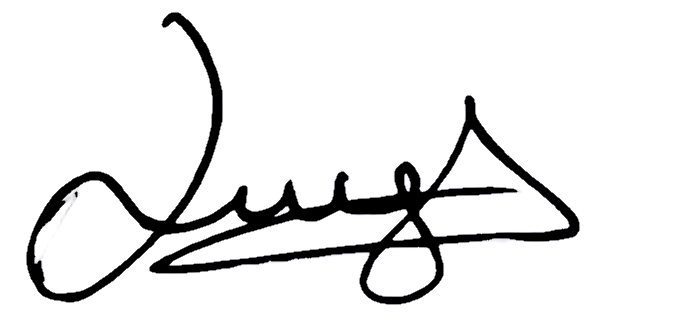
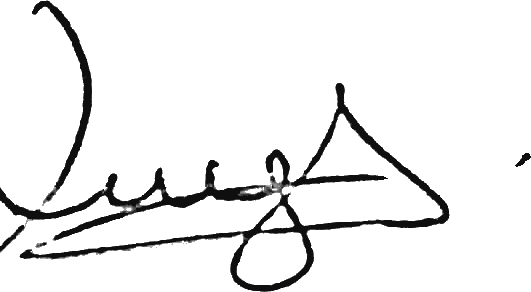
Final pristine certificate generator: inline bolding, stray marks removed, J. Terry erased

Changed region(s): [[0.0, 0.0, 0.8738, 1.0], [0.9642, 0.524, 1.0, 0.5856]]

diff --git a/services/certificateService.ts b/services/certificateService.ts
@@ -57,28 +57,33 @@ export async function generateCertificate(
         }
         doc.text(studentName, 0, 305, { align: 'center', width: 841.89 });
 
-        // PARAGRAPH
-        doc.font('Helvetica').fontSize(12).fillColor('#333333');
-        const certParagraph = (college && college.trim() && college !== 'College')
-          ? `student of ${college.trim()}, has successfully completed the ${domain} internship program at LGS Technologies from ${formattedStart} to ${formattedEnd}. During this internship, the student demonstrated dedication, enthusiasm, and outstanding performance.\n\nWe wish the student all the best for their future endeavors.`
-          : `has successfully completed the ${domain} internship program at LGS Technologies from ${formattedStart} to ${formattedEnd}. During this internship, the student demonstrated dedication, enthusiasm, and outstanding performance.\n\nWe wish the student all the best for their future endeavors.`;
-
-        doc.text(certParagraph, 150, 380, { align: 'center', width: 541.89, lineGap: 4 });
+        // PARAGRAPH WITH INLINE BOLD
+        doc.font('Helvetica').fontSize(11.5).fillColor('#333333');
+        if (college && college.trim() && college !== 'College') {
+          doc.text('student of ', 140, 375, { continued: true })
+             .font('Helvetica-Bold').text(`${college.trim()}`, { continued: true })
+             .font('Helvetica').text(`, has successfully completed the `, { continued: true })
+             .font('Helvetica-Bold').text(`${domain}`, { continued: true })
+             .font('Helvetica').text(` internship program at LGS Technologies from ${formattedStart} to ${formattedEnd}. During this internship, the student demonstrated dedication, enthusiasm, and outstanding performance.\n\nWe wish the student all the best for their future endeavors.`, { width: 561.89 });
+        } else {
+          doc.text('has successfully completed the ', 140, 375, { continued: true })
+             .font('Helvetica-Bold').text(`${domain}`, { continued: true })
+             .font('Helvetica').text(` internship program at LGS Technologies from ${formattedStart} to ${formattedEnd}. During this internship, the student demonstrated dedication, enthusiasm, and outstanding performance.\n\nWe wish the student all the best for their future endeavors.`, { width: 561.89 });
+        }
 
         // DATE (bottom left)
         doc.font('Helvetica-Oblique').fontSize(14).fillColor('#333333');
         doc.text(issueDate, 120, 508, { width: 140, align: 'center' });
 
         // SIGNATURE (bottom right / center signature slot)
-        // Erase any old printed template signature with exact parchment background box
-        doc.rect(415, 465, 140, 40).fill('#FCFAF6');
+        doc.rect(405, 465, 140, 40).fill('#FCFAF6');
 
         const signaturePath = path.join(process.cwd(), 'public', 'signature.png');
         const signaturePathAlt = path.join(process.cwd(), 'public', 'images', 'signature.png');
         if (fs.existsSync(signaturePath)) {
-          doc.image(signaturePath, 420, 460, { width: 130 });
+          doc.image(signaturePath, 405, 465, { width: 130 });
         } else if (fs.existsSync(signaturePathAlt)) {
-          doc.image(signaturePathAlt, 420, 460, { width: 130 });
+          doc.image(signaturePathAlt, 405, 465, { width: 130 });
         }
 
       } else {
@@ -155,28 +160,33 @@ export async function generateCertificateBuffer(
         }
         doc.text(studentName, 0, 305, { align: 'center', width: 841.89 });
 
-        // PARAGRAPH
-        doc.font('Helvetica').fontSize(12).fillColor('#333333');
-        const certParagraphBuf = (college && college.trim() && college !== 'College')
-          ? `student of ${college.trim()}, has successfully completed the ${domain} internship program at LGS Technologies from ${formattedStart} to ${formattedEnd}. During this internship, the student demonstrated dedication, enthusiasm, and outstanding performance.\n\nWe wish the student all the best for their future endeavors.`
-          : `has successfully completed the ${domain} internship program at LGS Technologies from ${formattedStart} to ${formattedEnd}. During this internship, the student demonstrated dedication, enthusiasm, and outstanding performance.\n\nWe wish the student all the best for their future endeavors.`;
-
-        doc.text(certParagraphBuf, 150, 380, { align: 'center', width: 541.89, lineGap: 4 });
+        // PARAGRAPH WITH INLINE BOLD
+        doc.font('Helvetica').fontSize(11.5).fillColor('#333333');
+        if (college && college.trim() && college !== 'College') {
+          doc.text('student of ', 140, 375, { continued: true })
+             .font('Helvetica-Bold').text(`${college.trim()}`, { continued: true })
+             .font('Helvetica').text(`, has successfully completed the `, { continued: true })
+             .font('Helvetica-Bold').text(`${domain}`, { continued: true })
+             .font('Helvetica').text(` internship program at LGS Technologies from ${formattedStart} to ${formattedEnd}. During this internship, the student demonstrated dedication, enthusiasm, and outstanding performance.\n\nWe wish the student all the best for their future endeavors.`, { width: 561.89 });
+        } else {
+          doc.text('has successfully completed the ', 140, 375, { continued: true })
+             .font('Helvetica-Bold').text(`${domain}`, { continued: true })
+             .font('Helvetica').text(` internship program at LGS Technologies from ${formattedStart} to ${formattedEnd}. During this internship, the student demonstrated dedication, enthusiasm, and outstanding performance.\n\nWe wish the student all the best for their future endeavors.`, { width: 561.89 });
+        }
 
         // DATE (bottom left)
         doc.font('Helvetica-Oblique').fontSize(14).fillColor('#333333');
         doc.text(issueDate, 120, 508, { width: 140, align: 'center' });
 
         // SIGNATURE (bottom right / center signature slot)
-        // Erase any old printed template signature with exact parchment background box
-        doc.rect(415, 465, 140, 40).fill('#FCFAF6');
+        doc.rect(405, 465, 140, 40).fill('#FCFAF6');
 
         const signaturePath = path.join(process.cwd(), 'public', 'signature.png');
         const signaturePathAlt = path.join(process.cwd(), 'public', 'images', 'signature.png');
         if (fs.existsSync(signaturePath)) {
-          doc.image(signaturePath, 420, 460, { width: 130 });
+          doc.image(signaturePath, 405, 465, { width: 130 });
         } else if (fs.existsSync(signaturePathAlt)) {
-          doc.image(signaturePathAlt, 420, 460, { width: 130 });
+          doc.image(signaturePathAlt, 405, 465, { width: 130 });
         }
 
       } else {